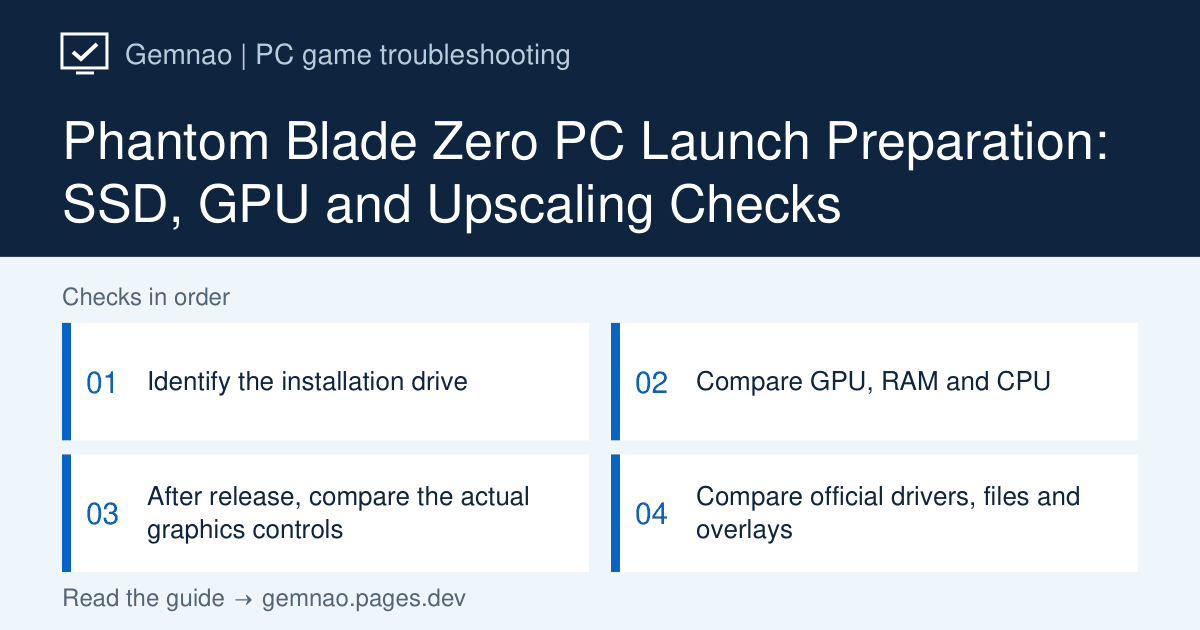
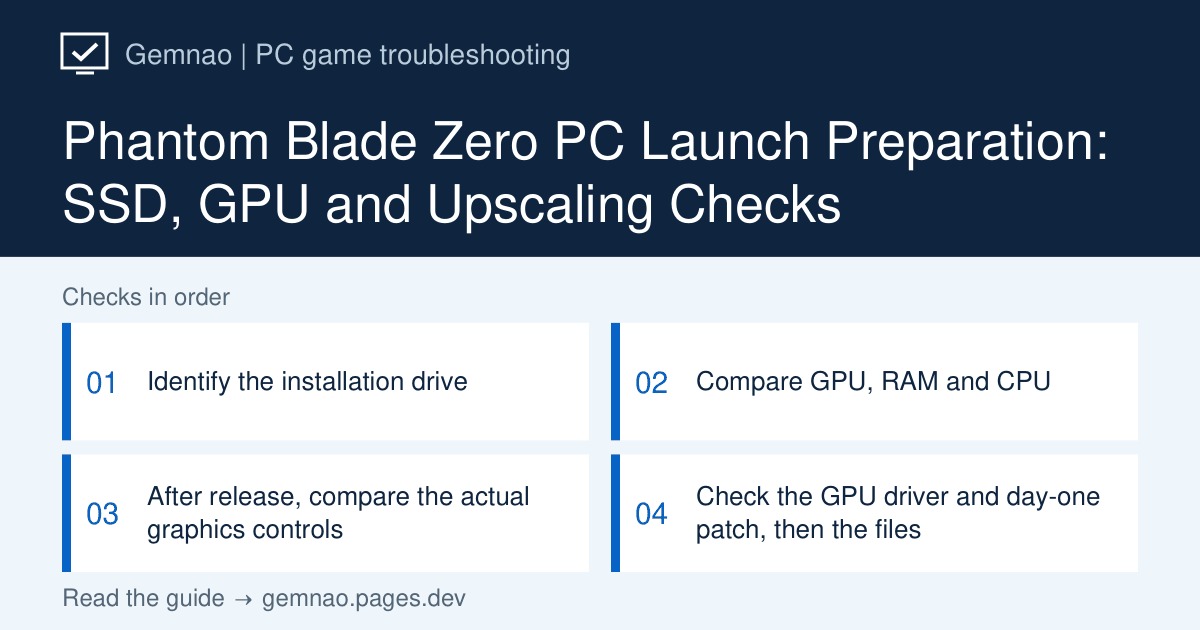
Phantom Blade Zero：デイワンパッチとNVIDIAドライバー617.42の推奨を反映
公式のお知らせ（Reason and Madness、10月28日）で確認した内容を追記:
- 発売時に約5GBのデイワンパッチ。予約ダウンロードした場合は起動前に適用
- NVIDIAの最新ドライバー621.01で動作が不安定になる場合があるとして、
  次のドライバーが出るまで617.42（クリーンインストール）を推奨
STEP 4の「最新ドライバーに更新」が公式の推奨と食い違うため書き直した
（STEPのidは変更なし）。英語版も同じ内容に更新。

Claude-Session: https://claude.ai/code/session_012qBvfLeXJKFbVbmjsB9psj

Changed region(s): [[0.5858, 0.754, 0.925, 0.8746]]

diff --git a/lib/upcoming-release-articles.ts b/lib/upcoming-release-articles.ts
@@ -423,19 +423,19 @@ export const upcomingReleaseArticles: GameArticle[] = [
     gameSlug: 'phantom-blade-zero',
     slug: 'not-launching',
     category: 'launch',
-    checkedAt: '2026-10-29',
+    checkedAt: '2026-10-30',
     seoTitle:
       'Phantom Blade Zero（影の刃零）が起動しない・重い時の対処法【PC版】',
     title:
       'Phantom Blade Zero（ファントムブレード ゼロ）が起動しない・重い時の対処法【PC版】',
     shortTitle: '起動しない・重い',
-    targetVersion: 'Steam版・2026年10月29日時点の公式情報（配信開始の直前）',
+    targetVersion: 'Steam版・2026年10月30日時点の公式情報（発売後）',
     symptom:
       'PC版が起動しない、起動直後に落ちる、読み込みが長い、フレームレートが低い・カクつく場合の確認手順です。',
     conclusion:
       '最低環境からSSDへのインストールが必須です。最低環境（GTX 1660 6GB・RX 5500 XT 8GB）の目安は、アップスケーリングを使って1080p・30fpsです。発売後に起動可能となってから、実際に選べるアップスケーリングとレイトレーシング設定を1項目ずつ比較します。製品版の実測結果ではありません。公式は、レイトレーシングなしでも見た目の迫力を保つよう調整したと説明しています。',
     description:
-      '公式の案内では、配信開始は日本時間2026年10月29日11時（太平洋夏時間10月28日19時）です。Steamストアの日本語表示は10月28日です（9月9日から延期）。容量は約145GBで、予約ダウンロード中は300GB以上の空きが必要と公式が案内しています。DRMにDenuvoが使われています（Steamストアの表記）。日本語はインターフェース・字幕に対応し、音声は日本語に対応していません。',
+      '公式の案内では、配信開始は日本時間2026年10月29日11時（太平洋夏時間10月28日19時）です。Steamストアの日本語表示は10月28日です（9月9日から延期）。容量は約145GBで、予約ダウンロード中は300GB以上の空きが必要と公式が案内しています。発売時には約5GBのデイワンパッチが配信され、予約ダウンロードした人は起動前に適用するよう案内されています。DRMにDenuvoが使われています（Steamストアの表記）。日本語はインターフェース・字幕に対応し、音声は日本語に対応していません。',
     causes: [
       'HDDにインストールしている（SSD必須）',
       'GPUが最低環境（GTX 1660 6GB・RX 5500 XT 8GB）を下回る',
@@ -535,13 +535,16 @@ export const upcomingReleaseArticles: GameArticle[] = [
       },
       {
         id: 'step-4',
-        title: 'GPUドライバーを更新し、ゲームファイルを確認する',
-        summary: '起動直後に落ちる・黒い画面のまま進まない場合に確認します。',
+        title:
+          'GPUドライバーとデイワンパッチを確認し、ゲームファイルを確認する',
+        summary:
+          '起動直後に落ちる・動作が不安定な場合に確認します。公式は、NVIDIAの最新ドライバー621.01で動作が不安定になる場合があるとして、617.42を推奨しています（NVIDIAの次のドライバーが出るまで）。',
         time: '約15分',
         risk: 'low',
         actions: [
-          driverUpdate,
-          steamVerify,
+          'NVIDIAのGPUで621.01など617.42より新しいドライバーを入れている場合は、公式の推奨どおり617.42に戻し、インストール時に「クリーンインストール」を選ぶ。AMD・IntelはAMD Software: Adrenalin Edition・Intelの公式サイトで最新のドライバーにする',
+          '予約ダウンロードした場合は、起動前に約5GBのデイワンパッチがダウンロード・適用されたか、Steamのダウンロード画面で確認する。そのうえで' +
+            steamVerify.replace('Steam：', ''),
           'Discord・Steamのオーバーレイ、録画・FPS表示ツールをオフにして起動を比べる',
         ],
       },
@@ -551,7 +554,7 @@ export const upcomingReleaseArticles: GameArticle[] = [
       'DRMのファイルを書き換える非公式ツールを使わない',
     ],
     cautions: [
-      '配信開始の直前（10月29日10時）の情報です。この時点で、発売後の不具合や修正についての公式のお知らせは出ていません。発売後の案内は、公式のお知らせもあわせて確認してください。',
+      'NVIDIAのドライバー617.42の推奨は、NVIDIAの次のドライバーが出るまでの公式の案内です（10月30日確認）。新しいドライバーが出たら、公式のお知らせで推奨が変わっていないか確認してください。',
     ],
     faqs: [
       {
@@ -582,7 +585,7 @@ export const upcomingReleaseArticles: GameArticle[] = [
       },
       {
         label:
-          'Steamニュース（公式）：Ready your blade!（配信開始時刻・容量・予約ダウンロード）、A Letter From Creative Director（延期・レイトレーシングなしでの見た目）',
+          'Steamニュース（公式）：Reason and Madness（デイワンパッチ・NVIDIAドライバー617.42の推奨）、Ready your blade!（配信開始時刻・容量）、A Letter From Creative Director（延期）',
         url: 'https://store.steampowered.com/news/app/4115450',
       },
     ],

diff --git a/lib/localized/upcoming-launch-en.ts b/lib/localized/upcoming-launch-en.ts
@@ -25,5 +25,5 @@ step('step-5','Check Deluxe ownership and installed content','The edition includ
 step('step-1','Identify the installation drive','SSD installation is part of both Steam configurations.','About 5 minutes',['Open Steam Settings → Storage and identify the game’s drive.','In Task Manager → Performance, compare the drive identity and SSD/HDD type.','If it is on an HDD, use Steam’s supported Storage move operation to a suitable SSD when installation/moving is available; preserve important data first.']),
 step('step-2','Compare GPU, RAM and CPU','The minimum target assumes upscaling rather than native rendering.','About 3 minutes',['In Task Manager → Performance → GPU, record the exact GPU and dedicated memory against GTX 1660 6 GB or RX 5500 XT 8 GB.','Confirm at least 16 GB system RAM.','Compare the CPU with Core i7-8700K or Ryzen 5 3600.']),
 step('step-3','After release, compare the actual graphics controls','Published minimum and recommended targets both assume upscaling.','About 5 minutes',['Record current settings and enable an available supported upscaler such as DLSS or FSR only if the game offers it.','Separately disable ray tracing if that control exists, then compare the same scene.','Compare 1080p against the published minimum 30 FPS target; do not treat the target as a guaranteed measurement.'],'Retail control names and availability were not tested. Restore changes that do not help.'),
-step('step-4','Compare official drivers, files and overlays','Use these checks after the release unlocks if launch fails.','About 15 minutes',[driver,verify,'Compare with Discord/Steam overlays and recording/FPS tools disabled, restoring ineffective changes.'])],avoid:['Do not keep reducing quality while ignoring the SSD requirement.','Do not use unofficial tools that modify DRM files; the Steam listing identifies Denuvo.'],cautions:['This is prerelease guidance. Check release availability and subsequent official issue/fix notices before interpreting a launch failure.'],faqs:[faq('Is GTX 1660 included in the minimum?','Yes, the 6 GB model is listed with a 1080p/30 FPS target using upscaling. SSD installation and the other requirements still apply.'),faq('Is Windows 10 listed?','The store lists 64-bit Windows 10/11. This game requirement is not a recommendation to use an unsupported Windows installation.'),faq('When is the release?','The official pre-load notice gives October 28, 2026 at 7:00 PM PDT (October 29, 11:00 JST). The game is about 145 GB, and the notice asks for at least 300 GB of free space during pre-load. It was delayed from September 9.'),faq('Can I use a controller?','The original store review records full controller support, recommends a gamepad and lists DUALSHOCK/DualSense support. Retail controller behavior has not been tested here.')],sources:sources('phantom-blade-zero'),related:[{href:'/en/guide/steam-game-not-launching',label:'General Steam launch checks'}]},
+step('step-4','Check the GPU driver and day-one patch, then the files','For crashes or unstable performance after launch. The developer reported performance instability with NVIDIA driver 621.01 and recommends 617.42 until NVIDIA’s next driver.','About 15 minutes',['On NVIDIA, if a driver newer than 617.42 (such as 621.01) is installed, roll back to 617.42 as officially recommended and choose the clean installation option. On AMD or Intel, use the current official driver.','If you pre-loaded, confirm the roughly 5 GB day-one patch downloaded and installed in Steam before launching, then '+verify.charAt(0).toLowerCase()+verify.slice(1),'Compare with Discord/Steam overlays and recording/FPS tools disabled, restoring ineffective changes.'])],avoid:['Do not keep reducing quality while ignoring the SSD requirement.','Do not use unofficial tools that modify DRM files; the Steam listing identifies Denuvo.'],cautions:['The 617.42 recommendation applies until NVIDIA’s next driver, per the official notice checked October 30. When a new driver arrives, check whether the official guidance has changed.'],faqs:[faq('Is GTX 1660 included in the minimum?','Yes, the 6 GB model is listed with a 1080p/30 FPS target using upscaling. SSD installation and the other requirements still apply.'),faq('Is Windows 10 listed?','The store lists 64-bit Windows 10/11. This game requirement is not a recommendation to use an unsupported Windows installation.'),faq('When is the release?','The official pre-load notice gives October 28, 2026 at 7:00 PM PDT (October 29, 11:00 JST). The game is about 145 GB, and the notice asks for at least 300 GB of free space during pre-load. It was delayed from September 9.'),faq('Can I use a controller?','The original store review records full controller support, recommends a gamepad and lists DUALSHOCK/DualSense support. Retail controller behavior has not been tested here.')],sources:sources('phantom-blade-zero'),related:[{href:'/en/guide/steam-game-not-launching',label:'General Steam launch checks'}]},
 ];

diff --git a/lib/og-image-manifest.ts b/lib/og-image-manifest.ts
@@ -169,7 +169,7 @@ export const ogImageManifest: Record<string, string> = {
   "/en/games/palworld/not-launching": "bcdf4845",
   "/en/games/palworld/save-data": "808205b4",
   "/en/games/palworld/system-requirements": "f6b26c26",
-  "/en/games/phantom-blade-zero/not-launching": "a8c20806",
+  "/en/games/phantom-blade-zero/not-launching": "1b8a61a9",
   "/en/games/planet-zoo-2": "7cd4edd4",
   "/en/games/planet-zoo-2/crashing-autosave": "fd052d81",
   "/en/games/pubg": "e241d591",
@@ -438,7 +438,7 @@ export const ogImageManifest: Record<string, string> = {
   "/games/palworld/save-data": "15163b8e",
   "/games/palworld/system-requirements": "61cda543",
   "/games/phantom-blade-zero": "2f79cc9e",
-  "/games/phantom-blade-zero/not-launching": "3cdc2aa5",
+  "/games/phantom-blade-zero/not-launching": "2410e275",
   "/games/planet-zoo-2": "3475a8f8",
   "/games/planet-zoo-2/crashing-autosave": "d5de4a49",
   "/games/pubg": "a1061084",

diff --git a/lib/article-review-index.ts b/lib/article-review-index.ts
@@ -1552,7 +1552,7 @@ export const articleReviews: Record<string, Omit<ArticleReview, 'path'>> = {
     title:
       'Phantom Blade Zero（ファントムブレード ゼロ）が起動しない・重い時の対処法【PC版】',
     gameSlug: 'phantom-blade-zero',
-    checkedOn: '2026-10-29',
+    checkedOn: '2026-10-30',
     steps: [
       { id: 'step-1', title: 'SSDにインストールされているか確認する' },
       { id: 'step-2', title: 'GPUが最低環境を満たすか確認する' },
@@ -1562,7 +1562,8 @@ export const articleReviews: Record<string, Omit<ArticleReview, 'path'>> = {
       },
       {
         id: 'step-4',
-        title: 'GPUドライバーを更新し、ゲームファイルを確認する',
+        title:
+          'GPUドライバーとデイワンパッチを確認し、ゲームファイルを確認する',
       },
     ],
   },
